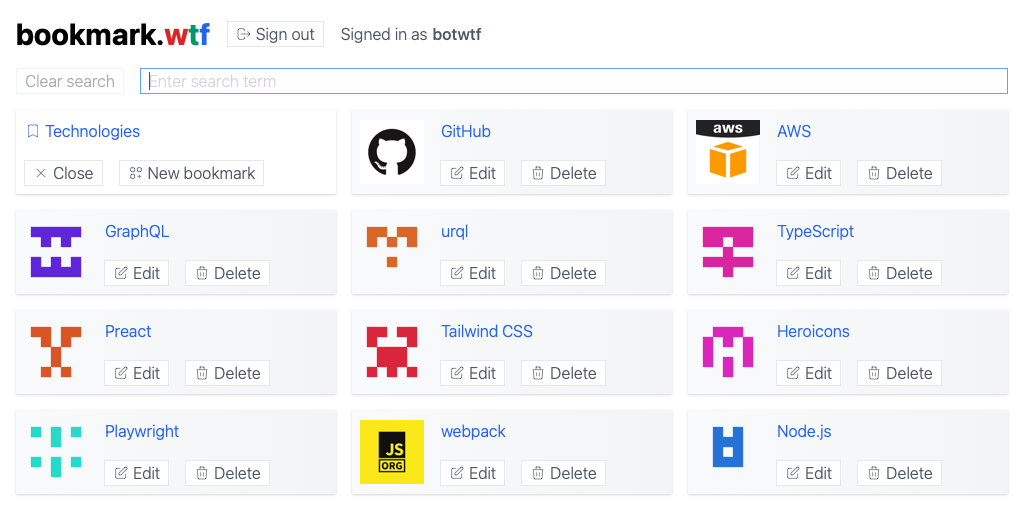
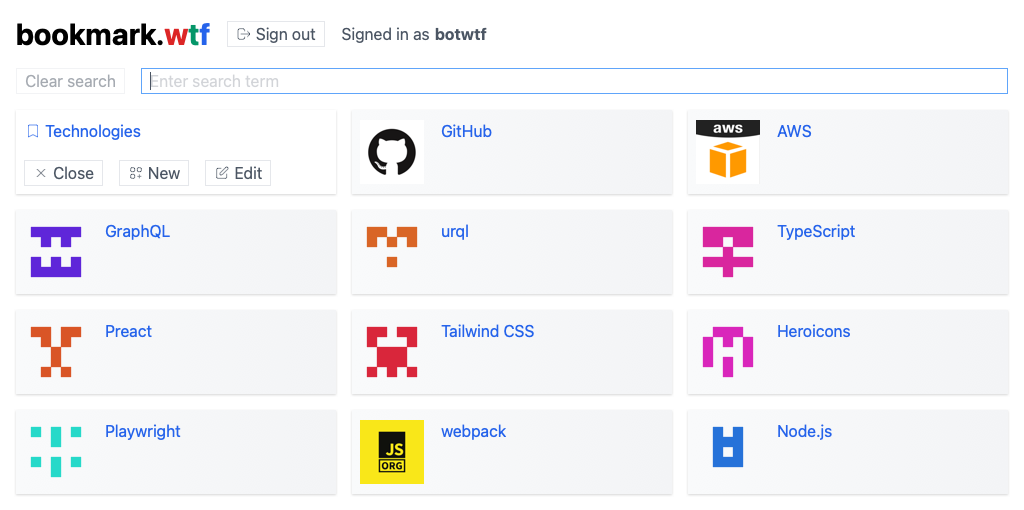
Distraction-free mode (closes #19)

diff --git a/src/components/collection-item.tsx b/src/components/collection-item.tsx
@@ -16,11 +16,13 @@ import {Link} from './link';
 export interface CollectionItemProps {
   readonly gistsStore: ReadyGistsStore | UpdatingGistsStore;
   readonly gist: ShallowGist;
+  readonly zenMode: boolean;
 }
 
 export function CollectionItem({
   gistsStore,
   gist: {gistName, description, mtime},
+  zenMode,
 }: CollectionItemProps): JSX.Element {
   const history = useContext(HistoryContext);
 
@@ -68,21 +70,23 @@ export function CollectionItem({
         </Link>
       }
       row2={
-        <>
-          <Button onClick={toggleEditMode}>
-            <Icon type="pencil" />
-            Edit
-          </Button>
+        !zenMode && (
+          <>
+            <Button onClick={toggleEditMode}>
+              <Icon type="pencil" />
+              Edit
+            </Button>
 
-          <Button
-            theme={deletable ? Theme.danger() : undefined}
-            disabled={!deleteGist}
-            onClick={deleteGist}
-          >
-            <Icon type="trash" />
-            Delete
-          </Button>
-        </>
+            <Button
+              theme={deletable ? Theme.danger() : undefined}
+              disabled={!deleteGist}
+              onClick={deleteGist}
+            >
+              <Icon type="trash" />
+              Delete
+            </Button>
+          </>
+        )
       }
       background
       highlight={useTimer(1500, mtime)}

diff --git a/src/components/collection-control.tsx b/src/components/collection-control.tsx
@@ -1,4 +1,4 @@
-import {JSX, h} from 'preact';
+import {Fragment, JSX, h} from 'preact';
 import {useMemo} from 'preact/hooks';
 import {ReadyGistsStore, UpdatingGistsStore} from '../hooks/use-gists-store';
 import {useToggle} from '../hooks/use-toggle';
@@ -10,10 +10,15 @@ import {NewCollectionForm} from './new-collection-form';
 
 export interface CollectionControlProps {
   readonly gistsStore: ReadyGistsStore | UpdatingGistsStore;
+  readonly zenMode: boolean;
+
+  onToggleZenMode(): void;
 }
 
 export function CollectionControl({
   gistsStore,
+  zenMode,
+  onToggleZenMode,
 }: CollectionControlProps): JSX.Element {
   const [creationMode, toggleCreationMode] = useToggle(false);
 
@@ -43,10 +48,19 @@ export function CollectionControl({
         </Label>
       }
       row2={
-        <Button onClick={toggleCreationMode}>
-          <Icon type="gridAdd" />
-          New collection
-        </Button>
+        <>
+          <Button onClick={toggleCreationMode}>
+            <Icon type="gridAdd" />
+            New
+          </Button>
+
+          {zenMode && (
+            <Button onClick={onToggleZenMode}>
+              <Icon type="pencil" />
+              Edit
+            </Button>
+          )}
+        </>
       }
     />
   );

diff --git a/src/components/bookmark-control.tsx b/src/components/bookmark-control.tsx
@@ -27,11 +27,16 @@ import {NewBookmarkForm} from './new-bookmark-form';
 export interface BookmarkControlProps {
   readonly gistName: string;
   readonly gistStore: ReadyGistStore | UpdatingGistStore | LockedGistStore;
+  readonly zenMode: boolean;
+
+  onToggleZenMode(): void;
 }
 
 export function BookmarkControl({
   gistName,
   gistStore,
+  zenMode,
+  onToggleZenMode,
 }: BookmarkControlProps): JSX.Element {
   const history = useContext(HistoryContext);
 
@@ -133,10 +138,19 @@ export function BookmarkControl({
           </Button>
 
           {gistStore.state !== 'locked' ? (
-            <Button onClick={toggleCreationMode}>
-              <Icon type="gridAdd" />
-              New bookmark
-            </Button>
+            <>
+              <Button onClick={toggleCreationMode}>
+                <Icon type="gridAdd" />
+                New
+              </Button>
+
+              {zenMode && (
+                <Button onClick={onToggleZenMode}>
+                  <Icon type="pencil" />
+                  Edit
+                </Button>
+              )}
+            </>
           ) : (
             <Label static>
               <Icon type="lockClosed" />

diff --git a/src/components/bookmark-list.tsx b/src/components/bookmark-list.tsx
@@ -4,6 +4,7 @@ import {useMemo} from 'preact/hooks';
 import {AuthorizedAuthStore} from '../hooks/use-auth-store';
 import {useGistStore} from '../hooks/use-gist-store';
 import {useSearchTerm} from '../hooks/use-search-term';
+import {useToggle} from '../hooks/use-toggle';
 import {compareBookmarks} from '../models/compare-bookmarks';
 import {parseBookmark} from '../models/parse-bookmark';
 import {BookmarkControl} from './bookmark-control';
@@ -44,15 +45,23 @@ export function BookmarkList({
     [gistStore, regex]
   );
 
+  const [zenMode, toggleZenMode] = useToggle(true);
+
   return gistStore.state !== 'loading' ? (
     <Grid>
-      <BookmarkControl gistName={gistName} gistStore={gistStore} />
+      <BookmarkControl
+        gistName={gistName}
+        gistStore={gistStore}
+        zenMode={zenMode}
+        onToggleZenMode={toggleZenMode}
+      />
 
       {bookmarkFiles.map((bookmarkFile) => (
         <BookmarkItem
           key={bookmarkFile.filename}
           gistStore={gistStore}
           bookmarkFile={bookmarkFile}
+          zenMode={zenMode}
         />
       ))}
     </Grid>

diff --git a/src/components/collection-list.tsx b/src/components/collection-list.tsx
@@ -1,6 +1,7 @@
 import {JSX, h} from 'preact';
 import {AuthorizedAuthStore} from '../hooks/use-auth-store';
 import {useGistsStore} from '../hooks/use-gists-store';
+import {useToggle} from '../hooks/use-toggle';
 import {CollectionControl} from './collection-control';
 import {CollectionItem} from './collection-item';
 import {Grid} from './grid';
@@ -18,15 +19,22 @@ export function CollectionList({
     throw gistsStore.reason;
   }
 
+  const [zenMode, toggleZenMode] = useToggle(true);
+
   return gistsStore.state !== 'loading' ? (
     <Grid>
-      <CollectionControl gistsStore={gistsStore} />
+      <CollectionControl
+        gistsStore={gistsStore}
+        zenMode={zenMode}
+        onToggleZenMode={toggleZenMode}
+      />
 
       {gistsStore.gists.map((gist) => (
         <CollectionItem
           key={gist.gistName}
           gistsStore={gistsStore}
           gist={gist}
+          zenMode={zenMode}
         />
       ))}
     </Grid>

diff --git a/src/components/bookmark-item.tsx b/src/components/bookmark-item.tsx
@@ -20,6 +20,7 @@ import {Link} from './link';
 export interface BookmarkItemProps {
   readonly gistStore: ReadyGistStore | UpdatingGistStore | LockedGistStore;
   readonly bookmarkFile: BookmarkFile;
+  readonly zenMode: boolean;
 }
 
 export interface BookmarkFile {
@@ -30,6 +31,7 @@ export interface BookmarkFile {
 export function BookmarkItem({
   gistStore,
   bookmarkFile,
+  zenMode,
 }: BookmarkItemProps): JSX.Element {
   const {filename, bookmark} = bookmarkFile;
   const [editMode, toggleEditMode] = useToggle(false);
@@ -90,7 +92,8 @@ export function BookmarkItem({
         </Link>
       }
       row2={
-        gistStore.state !== 'locked' && (
+        gistStore.state !== 'locked' &&
+        !zenMode && (
           <>
             <Button onClick={toggleEditMode}>
               <Icon type="pencil" />

diff --git a/src/components/grid-item.tsx b/src/components/grid-item.tsx
@@ -14,7 +14,7 @@ export interface GridItemProps {
 export function GridItem({
   leftCol,
   row1,
-  row2 = <Label static>{'\u00A0'}</Label>,
+  row2,
   rightCol,
   background,
   highlight,
@@ -33,7 +33,10 @@ export function GridItem({
 
       <div class="flex flex-col space-y-4 w-full overflow-hidden">
         <div class="flex space-x-4 w-full">{row1}</div>
-        {row2 && <div class="flex space-x-4 w-full">{row2}</div>}
+
+        <div class="flex space-x-4 w-full">
+          {row2 || <Label static>{'\u00A0'}</Label>}
+        </div>
       </div>
 
       {rightCol && (
